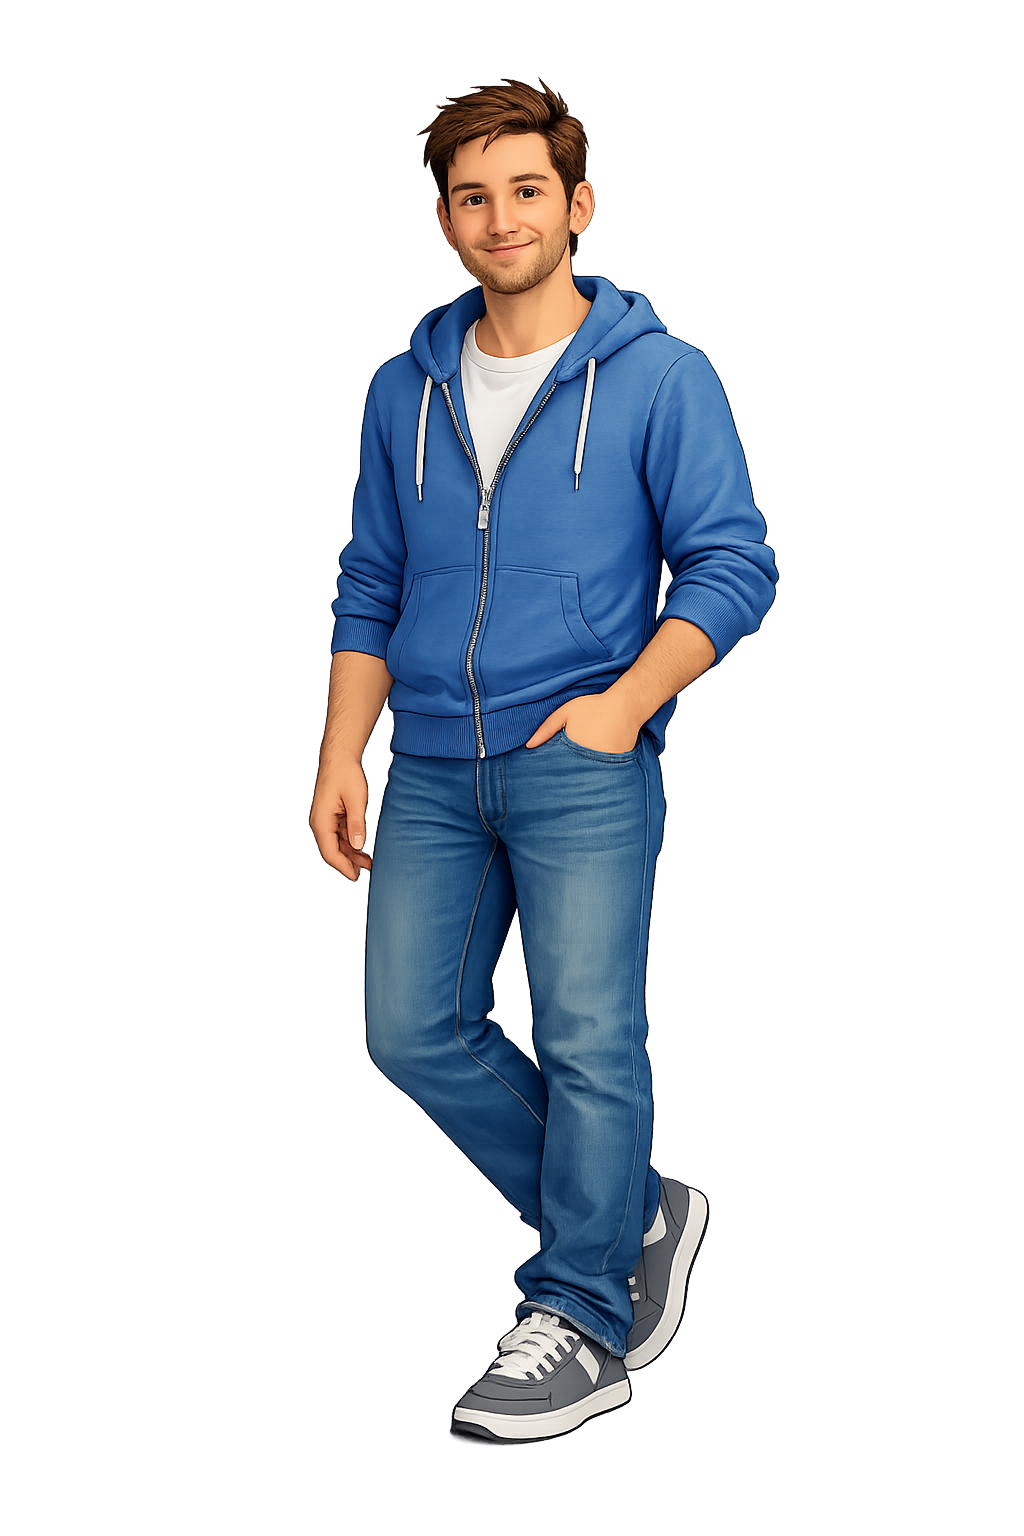
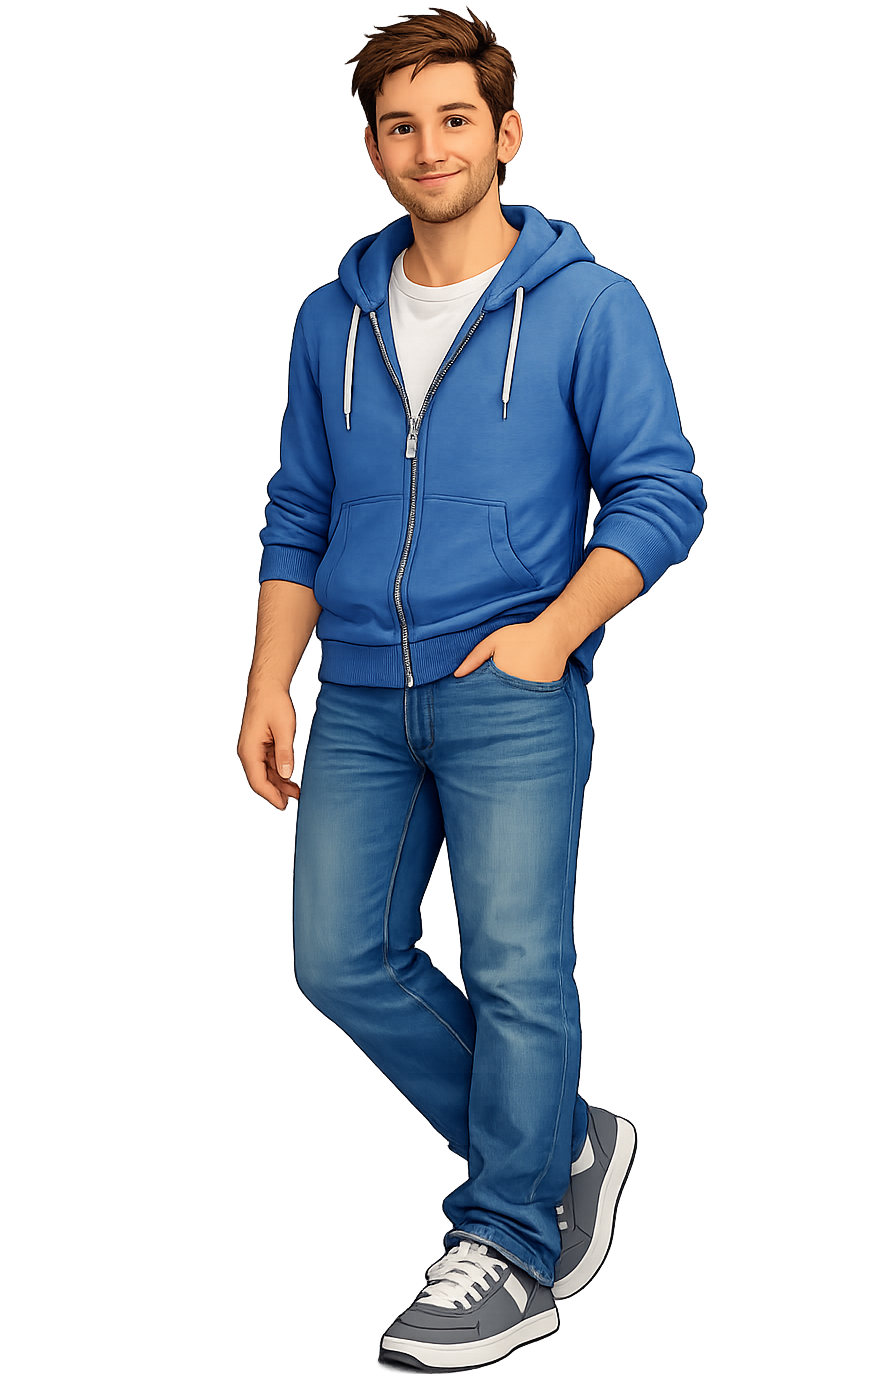
modify aesthetic and UI

Changed region(s): [[0.2413, 0.0, 0.7844, 1.0]]

diff --git a/chr_exten/popup.html b/chr_exten/popup.html
@@ -4,10 +4,14 @@
   <meta charset="UTF-8">
   <meta name="viewport" content="width=device-width, initial-scale=1">
   <title>Atryon</title>
+  <link rel="preconnect" href="https://fonts.googleapis.com">
+  <link rel="preconnect" href="https://fonts.gstatic.com" crossorigin>
+  <link href="https://fonts.googleapis.com/css2?family=Roboto:wght@400;500;600&display=swap" rel="stylesheet">
   <link rel="stylesheet" href="popup.css">
 </head>
 <body>
   <header class="header">
+    <img src="assets/logo.png" alt="" class="header-logo" width="28" height="28">
     <h1 class="title">Atryon</h1>
   </header>
 
@@ -16,7 +20,7 @@
       <div class="square-wrap">
         <label class="square-label">Clothing piece</label>
         <div id="garmentSquare" class="square">
-          <img id="garmentImg" class="square-img" alt="Garment" hidden>
+          <img id="garmentImg" class="square-img" alt="Garment" src="assets/tshirt.png">
         </div>
         <button type="button" id="selectGarment" class="btn btn-secondary">Add garment</button>
       </div>
@@ -24,7 +28,7 @@
       <div class="square-wrap">
         <label class="square-label">Yourself</label>
         <div id="selfieSquare" class="square">
-          <img id="selfieImg" class="square-img" alt="Your photo" hidden>
+          <img id="selfieImg" class="square-img" alt="Your photo" src="assets/guy.png">
         </div>
         <input type="file" id="userImage" accept="image/*" class="file-input" aria-label="Upload your photo">
         <button type="button" id="triggerUpload" class="btn btn-secondary">Upload your photo</button>

diff --git a/chr_exten/popup.css b/chr_exten/popup.css
@@ -1,16 +1,16 @@
-/* Atryon popup – Vanilla CSS, no preprocessors */
+/* Atryon popup – Vanilla CSS, earth tones */
 
 :root {
-  --bg: #1a1a1e;
-  --surface: #25252b;
-  --border: #3a3a42;
-  --text: #e8e8ed;
-  --text-muted: #9a9aa8;
-  --primary: #6366f1;
-  --primary-hover: #5558e3;
-  --secondary: #3f3f46;
-  --success: #22c55e;
-  --error: #ef4444;
+  --bg: #2c2825;
+  --surface: #3d3630;
+  --border: #5c534a;
+  --text: #e8e2da;
+  --text-muted: #9c9186;
+  --primary: #6b7c5c;
+  --primary-hover: #5a6a4c;
+  --secondary: #4a443c;
+  --success: #5c7c5c;
+  --error: #a65d4a;
   --square-size: 140px;
 }
 
@@ -25,7 +25,7 @@ body {
   overflow-y: auto;
   margin: 0;
   padding: 0;
-  font-family: system-ui, -apple-system, Segoe UI, Roboto, sans-serif;
+  font-family: 'Roboto', sans-serif;
   font-size: 14px;
   color: var(--text);
   background: var(--bg);
@@ -35,6 +35,17 @@ body {
   padding: 12px 16px;
   border-bottom: 1px solid var(--border);
   background: var(--surface);
+  display: flex;
+  align-items: center;
+  gap: 10px;
+}
+
+.header-logo {
+  flex-shrink: 0;
+  width: 28px;
+  height: 28px;
+  object-fit: contain;
+  border-radius: 6px;
 }
 
 .title {
@@ -83,7 +94,7 @@ body {
 .square-img {
   width: 100%;
   height: 100%;
-  object-fit: cover;
+  object-fit: contain;
   display: block;
 }
 

diff --git a/chr_exten/popup.js b/chr_exten/popup.js
@@ -14,11 +14,9 @@
 
   const els = {
     garmentSquare: document.getElementById('garmentSquare'),
-    garmentPlaceholder: document.getElementById('garmentPlaceholder'),
     garmentImg: document.getElementById('garmentImg'),
     selectGarment: document.getElementById('selectGarment'),
     selfieSquare: document.getElementById('selfieSquare'),
-    selfiePlaceholder: document.getElementById('selfiePlaceholder'),
     selfieImg: document.getElementById('selfieImg'),
     userImage: document.getElementById('userImage'),
     triggerUpload: document.getElementById('triggerUpload'),
@@ -36,16 +34,12 @@
 
   function showGarmentPreview(url) {
     garmentUrl = url;
-    els.garmentPlaceholder.hidden = true;
-    els.garmentImg.hidden = false;
     els.garmentImg.src = url;
     setStatus('Clothing selected');
   }
 
   function showSelfiePreview(file) {
     userFile = file;
-    els.selfiePlaceholder.hidden = true;
-    els.selfieImg.hidden = false;
     els.selfieImg.src = URL.createObjectURL(file);
     setStatus('Photo added');
   }
